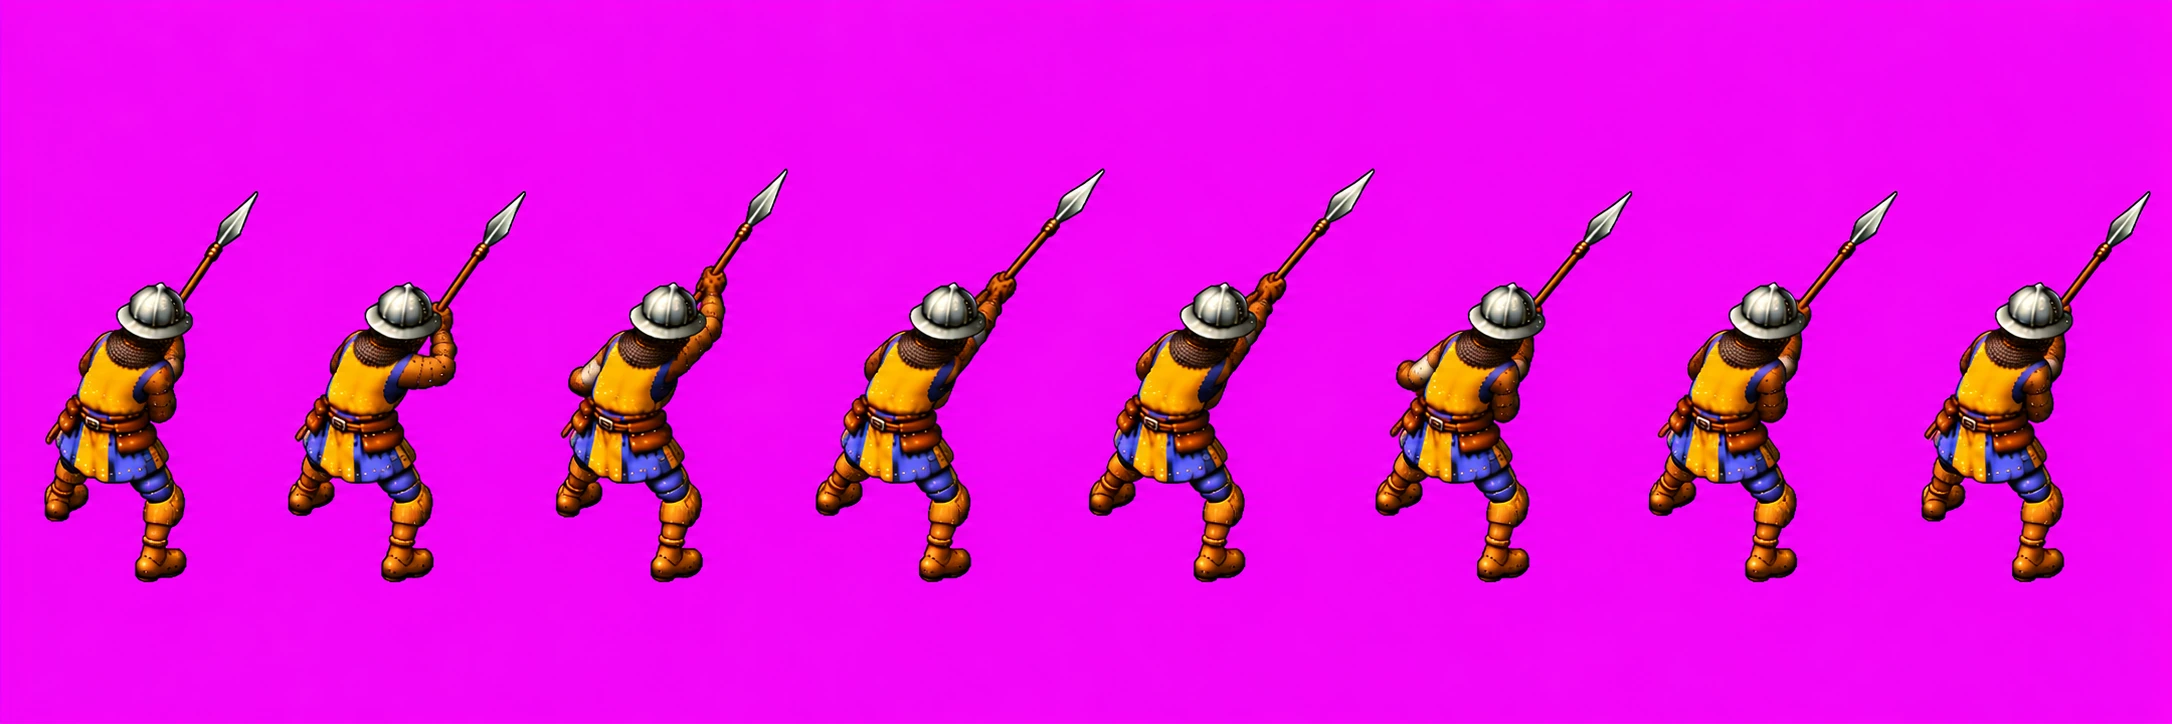
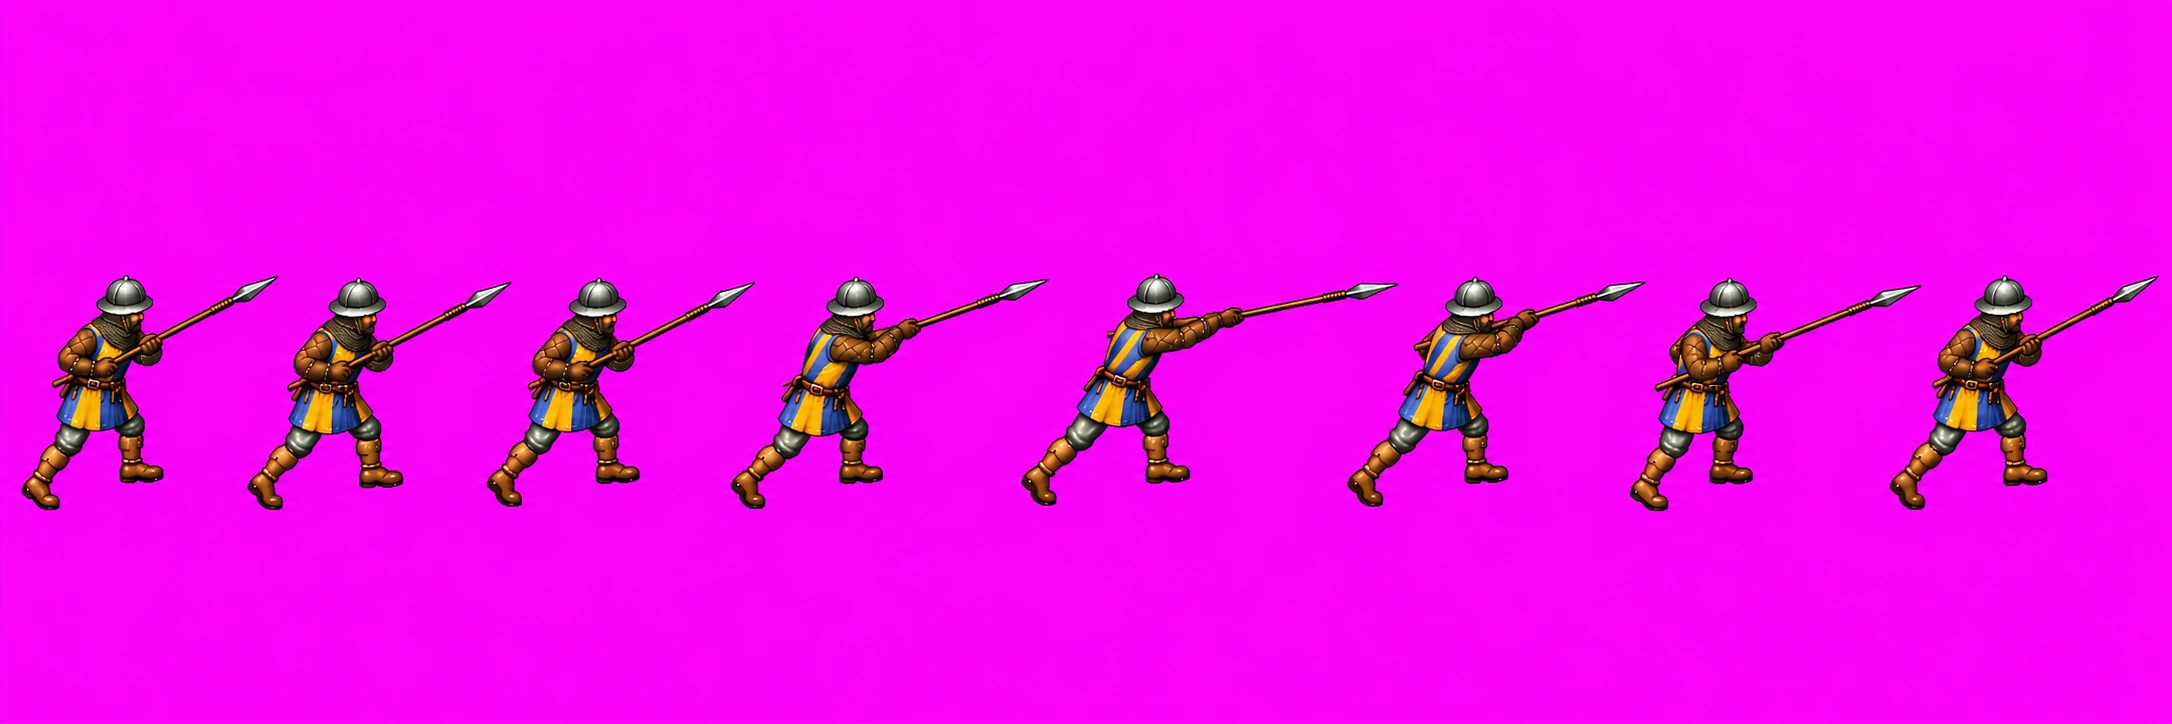
Aanvallen NO van de speerman met een vlakkere steek die op twee tegels raakt
De speer stak te steil omhoog (33 pixels boven de romp van de buurman op twee tegels). Opnieuw gevraagd, vlakker en tot
hoofdhoogte: de punt komt nu op (71, -69) tegen (64, -72). Hij staat wel meer van opzij dan bij lopen NO. Staan en lopen
blijven pixel voor pixel hetzelfde.

diff --git a/ontwerp/beelden-van-de-generator.md b/ontwerp/beelden-van-de-generator.md
@@ -392,6 +392,9 @@ generator van 1,7 MB; op spelmaat is het verschil ruis) en lopen in het spel. Wa
   en O 16 te hoog: die drie opnieuw, met waar de punt moet komen. Aanvallen O kwam goed met "redo 16: [...] the spear
   is held at the height of his own belly, just above his belt, not at shoulder height, in every frame; at full extension
   the spearhead is almost as far to the right of his body as he is tall": de punt op (73, -42) tegen (64, -40).
+  Aanvallen NO met "thrust at a flatter angle [...] almost as far to the right of his body as he is tall, at the height
+  of his own head": de punt op (71, -69) tegen (64, -72) op twee tegels, maar hij staat meer van opzij dan lopen NO.
+  Aanvallen ZW kwam eerst van opzij (als W) en met twee beelden tegen elkaar; opnieuw gevraagd.
 - **Alle 25 vellen zijn er** (22 okt). Wat nog beter kan: eventueel 3 en 4 (lopen ZW en W:
   de punt naar achteren). De vallen vanaf 18 zijn glimmender en oranjer getekend (de wapenrok bijna zonder blauw);
   `kleurGelijk` trekt de kleur bij, de vorm niet. Bij N (vel 14), van achteren, speelt hetzelfde: dan de punt
